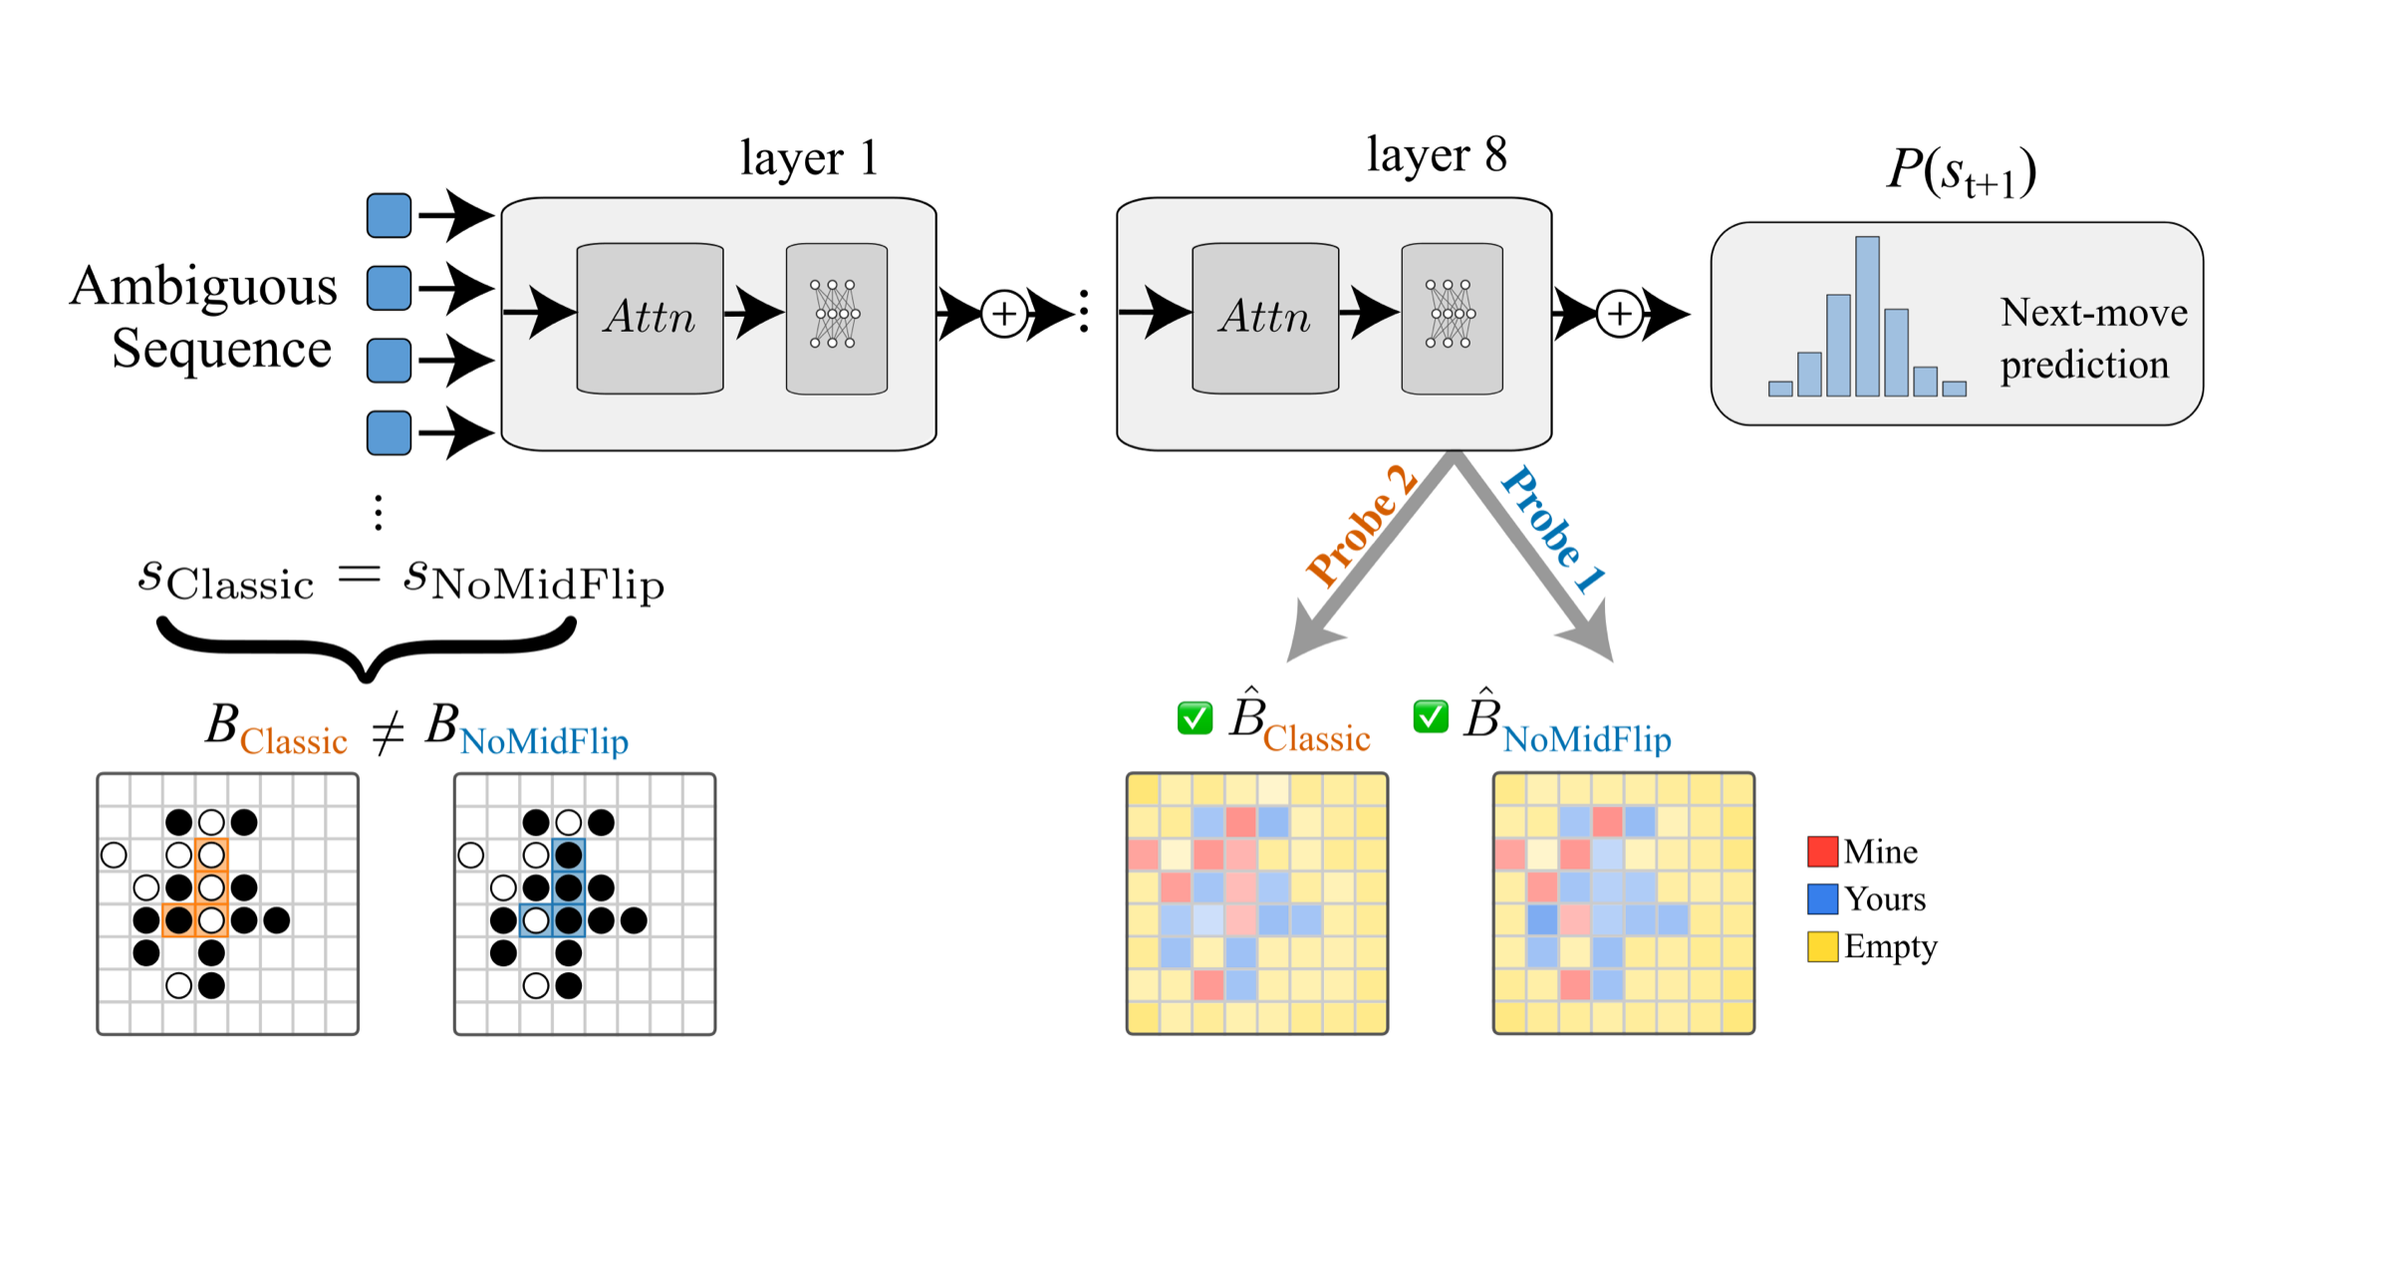
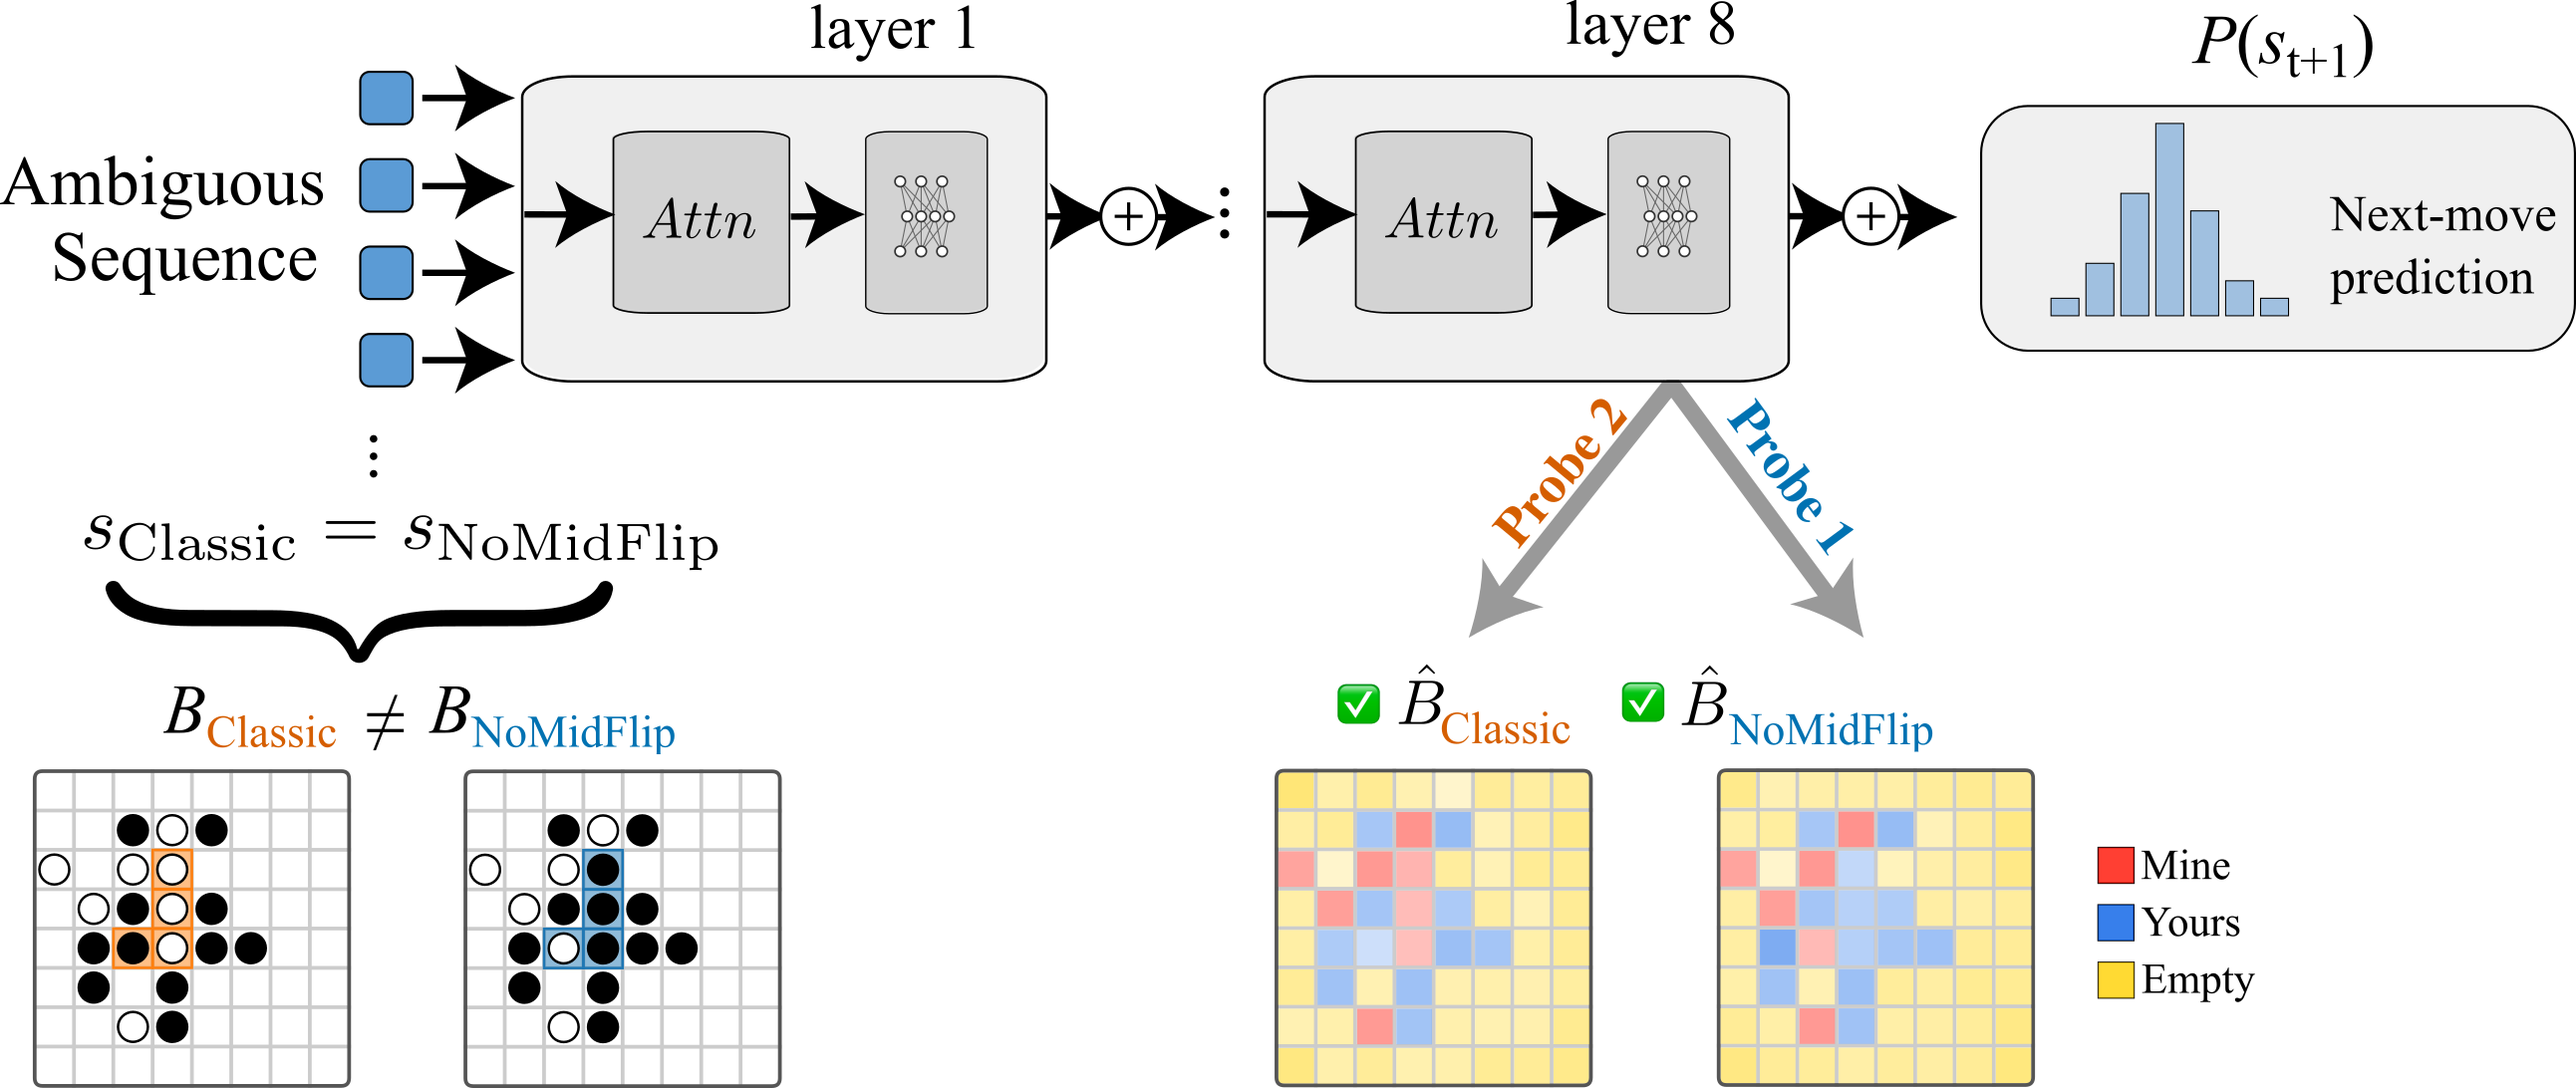
Polish hero/buttons/findings/footer per review feedback
- Buttons: rounded-rect (not pill), serif bold, blue-bordered secondary /
  filled-blue primary, no underline, matching provided reference design.
- Hero: bigger, semibold subtitle vs. bold "MetaOthello", wider/more
  prominent TL;DR-style caption, figure borders removed (PNGs are already
  transparent), figure sizes tuned per feedback.
- Key Findings: replaced with the exact title/caption text from the
  poster's "Key Takeaways" (titles: Shared Representations, Shared
  Computation, Ambiguity Circuit).
- Abstract: swapped in the user-provided revised copy.
- Cite Us: renamed BibTeX key to chawla_hall_2026_metaothello.
- Footer: added Vermont Complex Systems Institute and Computational
  Ethics Lab logos, sized/centered consistently.

diff --git a/src/style.css b/src/style.css
@@ -19,7 +19,7 @@
 
   --content-width: 800px;
   --wide-width: 1080px;
-  --accent: #1d6fd1;
+  --accent: #5b7fe0;
   --accent-soft: #eaf1fb;
   --border-radius: 8px;
   --monospace:
@@ -126,6 +126,14 @@ section h2 {
   line-height: 1.25;
 }
 
+.hero h1 .title-strong {
+  font-weight: 800;
+}
+
+.hero h1 .title-semi {
+  font-weight: 600;
+}
+
 .authors {
   font-size: 17px;
   line-height: 1.6;
@@ -177,29 +185,27 @@ section h2 {
   flex-wrap: wrap;
   align-items: center;
   justify-content: center;
-  gap: 0.6rem;
+  gap: 0.75rem;
   margin: 1.75rem auto 3rem auto;
   max-width: 760px;
-  font-family: var(--sans-serif);
 }
 
 .btn {
   display: inline-flex;
   align-items: center;
   gap: 0.4rem;
-  font: 600 13.5px/1 var(--sans-serif);
-  padding: 0.65rem 1.15rem;
-  border-radius: 999px;
-  border: 1px solid var(--theme-foreground-fainter);
+  font: 700 17px/1 var(--serif);
+  padding: 0.8rem 1.6rem;
+  border-radius: 14px;
+  border: 2px solid var(--accent);
   background: var(--theme-background);
   color: var(--theme-foreground) !important;
   text-decoration: none !important;
-  transition: border-color 120ms ease, background 120ms ease, color 120ms ease, transform 120ms ease;
+  transition: background 120ms ease, transform 120ms ease, box-shadow 120ms ease;
 }
 
 .btn:hover {
-  border-color: var(--accent);
-  color: var(--accent) !important;
+  background: var(--accent-soft);
   transform: translateY(-1px);
 }
 
@@ -207,22 +213,19 @@ section h2 {
   background: var(--accent);
   border-color: var(--accent);
   color: #fff !important;
+  text-decoration: none !important;
+  box-shadow: 0 2px 6px color-mix(in srgb, var(--accent) 35%, transparent);
 }
 
 .btn-primary:hover {
-  background: color-mix(in srgb, var(--accent) 85%, black);
-  color: #fff !important;
-}
-
-.btn-icon {
-  font-size: 15px;
-  line-height: 1;
+  background: color-mix(in srgb, var(--accent) 88%, black);
+  border-color: color-mix(in srgb, var(--accent) 88%, black);
 }
 
 .hero-image-wrap {
-  max-width: var(--wide-width);
+  max-width: 1000px;
   margin: 0 auto;
-  padding: 0 1.5rem;
+  padding: 1rem 1.5rem;
 }
 
 .hero-image-wrap img {
@@ -230,17 +233,16 @@ section h2 {
   height: auto;
   display: block;
   border-radius: var(--border-radius);
-  border: 1px solid var(--theme-foreground-fainter);
-  background: #fff;
+  background: transparent;
 }
 
 .hero-caption {
   text-align: center;
-  font-size: 13px;
-  line-height: 1.6;
-  color: var(--theme-foreground-muted);
-  max-width: 640px;
-  margin: 0.85rem auto 0 auto;
+  font-size: 16px;
+  line-height: 1.7;
+  color: var(--theme-foreground-alt);
+  max-width: 820px;
+  margin: 1.5rem auto 0 auto;
 }
 
 /* ---------- abstract ---------- */
@@ -256,25 +258,26 @@ section h2 {
 /* ---------- figure block ---------- */
 
 .figure-block {
-  margin-top: 2rem;
+  max-width: 760px;
+  margin: 2rem auto 0 auto;
   overflow-x: auto;
 }
 
 .figure-block img {
   width: 100%;
-  min-width: 640px;
+  min-width: 480px;
   height: auto;
   display: block;
   border-radius: var(--border-radius);
-  border: 1px solid var(--theme-foreground-fainter);
-  background: #fff;
+  background: transparent;
 }
 
 .figure-caption {
+  max-width: 760px;
   font-size: 13.5px;
   line-height: 1.65;
   color: var(--theme-foreground-muted);
-  margin-top: 0.9rem;
+  margin: 0.9rem auto 0 auto;
 }
 
 /* ---------- findings cards ---------- */
@@ -333,6 +336,43 @@ section h2 {
 }
 
 /* ---------- footer ---------- */
+
+.footer-logos {
+  display: flex;
+  align-items: center;
+  justify-content: center;
+  gap: 2rem;
+  margin: 0 auto 1.5rem auto;
+}
+
+.footer-logos a {
+  display: flex;
+  align-items: center;
+  justify-content: center;
+  width: 108px;
+  height: 108px;
+  opacity: 0.85;
+  transition: opacity 120ms ease, transform 120ms ease;
+}
+
+.footer-logos a.logo-vcsi {
+  width: 102px;
+  height: 102px;
+}
+
+.footer-logos a:hover {
+  opacity: 1;
+  transform: translateY(-1px);
+}
+
+.footer-logos img {
+  display: block;
+  max-width: 100%;
+  max-height: 100%;
+  width: auto;
+  height: auto;
+  object-fit: contain;
+}
 
 .site-footer {
   border-top: 1px solid var(--theme-foreground-fainter);

diff --git a/src/index.md b/src/index.md
@@ -4,7 +4,7 @@ toc: false
 ---
 
 <div class="hero">
-  <h1>MetaOthello: A Controlled Study of Multiple World Models in Transformers</h1>
+  <h1><strong class="title-strong">MetaOthello</strong><span class="title-semi">: A Controlled Study of Multiple World Models in Transformers</span></h1>
 
   <p class="authors">
     <a href="https://aviralchawla.github.io" target="_blank" rel="noopener">Aviral Chawla</a><sup>1,*</sup> &nbsp;
@@ -22,17 +22,17 @@ toc: false
   <p class="venue-caption">ICML 2026 &nbsp;·&nbsp; Seoul, South Korea</p>
 
   <div class="button-row">
-    <a class="btn btn-primary" href="https://arxiv.org/abs/2602.23164" target="_blank" rel="noopener"><span class="btn-icon">&#9998;</span> arXiv</a>
-    <a class="btn" href="https://github.com/aviralchawla/metaothello" target="_blank" rel="noopener"><span class="btn-icon">&#9733;</span> Code</a>
-    <a class="btn" href="https://huggingface.co/aviralchawla/metaothello" target="_blank" rel="noopener"><span class="btn-icon">&#129303;</span> Models</a>
-    <a class="btn" href="https://huggingface.co/datasets/aviralchawla/metaothello" target="_blank" rel="noopener"><span class="btn-icon">&#129303;</span> Dataset</a>
-    <a class="btn" href="#cite"><span class="btn-icon">&#10088;&#10089;</span> Cite Us</a>
+    <a class="btn btn-primary" href="https://arxiv.org/abs/2602.23164" target="_blank" rel="noopener">arXiv</a>
+    <a class="btn" href="https://github.com/aviralchawla/metaothello" target="_blank" rel="noopener">Code</a>
+    <a class="btn" href="https://huggingface.co/aviralchawla/metaothello" target="_blank" rel="noopener">Models</a>
+    <a class="btn" href="https://huggingface.co/datasets/aviralchawla/metaothello" target="_blank" rel="noopener">Dataset</a>
+    <a class="btn" href="#cite">Cite Us</a>
   </div>
 </div>
 
 <div class="hero-image-wrap">
   <img src="./assets/hero.png" alt="MetaOthello overview: an ambiguous move sequence is consistent with two different Othello variants (Classic and NoMidFlip); a transformer trained on both processes the sequence through shared early layers, and linear probes recover the correct, variant-specific board state at a later layer.">
-  <p class="hero-caption">A single move sequence can be legal under two different Othello rule sets at once. MetaOthello trains one transformer on mixed rule systems and asks: whose board state does it actually track &mdash; and how?</p>
+  <p class="hero-caption">MetaOthello is a suite of Othello-like games that share the same 8&times;8 board and token vocabulary but follow different rules for what counts as a legal move and how the board updates. We train small GPTs on sequences sampled from mixtures of these games, then use linear probes to read out &mdash; and intervene on &mdash; the board state the model believes it is tracking. When an early move sequence is ambiguous between rule sets, does the model keep one shared world model, several separate ones, or something in between?</p>
 </div>
 
 <section id="abstract">
@@ -41,7 +41,7 @@ toc: false
 ## Abstract
 
 <p class="abstract-body">
-Foundation models must handle multiple generative processes, yet mechanistic interpretability largely studies capabilities in isolation; it remains unclear how a single transformer organizes multiple, potentially conflicting &ldquo;world models&rdquo;. Previous experiments on Othello-playing neural networks test world-model learning, but focus on a single game with a single set of rules. We introduce <em>MetaOthello</em>, a controlled suite of Othello-like games with shared syntax but different rules or tokenizations, and train small GPTs on mixed-variant data. We show that transformers trained on multiple Othello variants learn <strong>shared world-state representations</strong>: linear probes trained on one game intervene on another&rsquo;s board state nearly as well as matched probes. When the games conflict, the model resolves the resulting <em>ambiguity</em> through a localized mechanism we identify and steer. For isomorphic games with token remapping, representations are equivalent up to a single orthogonal rotation that generalizes across layers, showing the shared structure is abstract rather than tied to surface form. Together, these results show that transformers reconcile conflicting world models by sharing structure and localizing conflict. <em>MetaOthello</em> thus offers a path toward understanding how transformers organize many world models at once.
+Foundation models must handle multiple generative processes, yet mechanistic interpretability largely studies capabilities in isolation; how a single transformer organizes multiple, potentially conflicting &ldquo;world models&rdquo; remains unclear. Prior work on Othello-playing networks tests world-model learning but focuses on one game with one rule set. We introduce <em>MetaOthello</em>, a suite of Othello-like games with shared syntax but different rules or tokenizations, and train small GPTs on mixed-variant data. Transformers trained on multiple variants learn <strong>shared world-state representations</strong>: probes trained on one game intervene on another&rsquo;s board state nearly as well as matched probes. When games conflict, the model resolves the ambiguity through a localized mechanism we identify and steer. For isomorphic games with token remapping, representations are equivalent up to a single orthogonal rotation that generalizes across layers, showing the shared structure is abstract rather than surface-tied. These results show that transformers reconcile conflicting world models by sharing structure and localizing conflict, offering a path toward understanding how they organize many world models at once.
 </p>
 
 </div>
@@ -70,18 +70,18 @@ Foundation models must handle multiple generative processes, yet mechanistic int
 <div class="findings-grid">
   <div class="finding-card">
     <div class="finding-number">1</div>
-    <h3>Shared, causally interchangeable representations</h3>
-    <p>Transformers trained on multiple Othello variants do not partition capacity into isolated sub-models. Board-state representations are largely shared and abstract: linear probes trained on one game causally intervene on another&rsquo;s internal state nearly as well as matched probes.</p>
+    <h3>Shared Representations</h3>
+    <p>Transformers learn to generalize shared abstractions. Board represenations for two disparate games is causally interchangeable.</p>
   </div>
   <div class="finding-card">
     <div class="finding-number">2</div>
-    <h3>The model also learns to route game identity</h3>
-    <p>Beyond tracking board state, the model performs a second job: a localized mid-layer circuit constructs and identifies which game is being played, and steering it causally controls which rule system the model applies to an ambiguous sequence.</p>
+    <h3>Shared Computation</h3>
+    <p>Models also perform game-general computations in early layers and then later identify game identity for game specific calculations.</p>
   </div>
   <div class="finding-card">
     <div class="finding-number">3</div>
-    <h3>When game sequences diverge, a targeted mechanism resolves the ambiguity</h3>
-    <p>The model shares representation where games agree and diverges only where rules conflict. Rather than maintaining fully separate world models, it localizes conflict to an identifiable, steerable mechanism.</p>
+    <h3>Ambiguity Circuit</h3>
+    <p>When game sequences overlap and board representations are causally shared, we show mechanisms of how model resolve ambiguity.</p>
   </div>
 </div>
 
@@ -100,7 +100,7 @@ If you find MetaOthello useful, please cite our paper:
 <div class="wrap cite-wrap">
 
 ```bibtex
-@inproceedings{chawla2026metaothello,
+@inproceedings{chawla_hall_2026_metaothello,
   title     = {MetaOthello: A Controlled Study of Multiple World Models in Transformers},
   author    = {Chawla, Aviral and Hall, Galen and Lovato, Juniper},
   booktitle = {Proceedings of the 43rd International Conference on Machine Learning},
@@ -116,6 +116,10 @@ If you find MetaOthello useful, please cite our paper:
 </section>
 
 <footer class="site-footer">
+  <div class="footer-logos">
+    <a class="logo-vcsi" href="https://vermontcomplexsystems.org" target="_blank" rel="noopener"><img src="./assets/vcsi.png" alt="Vermont Complex Systems Institute"></a>
+    <a class="logo-cel" href="https://www.compethicslab.org" target="_blank" rel="noopener"><img src="./assets/cel_logo.png" alt="Computational Ethics Lab at UVM"></a>
+  </div>
   <p class="footer-authors">
     <a href="https://aviralchawla.github.io" target="_blank" rel="noopener">Aviral Chawla</a> &nbsp;·&nbsp;
     <a href="https://galenhall.net" target="_blank" rel="noopener">Galen Hall</a> &nbsp;·&nbsp;
